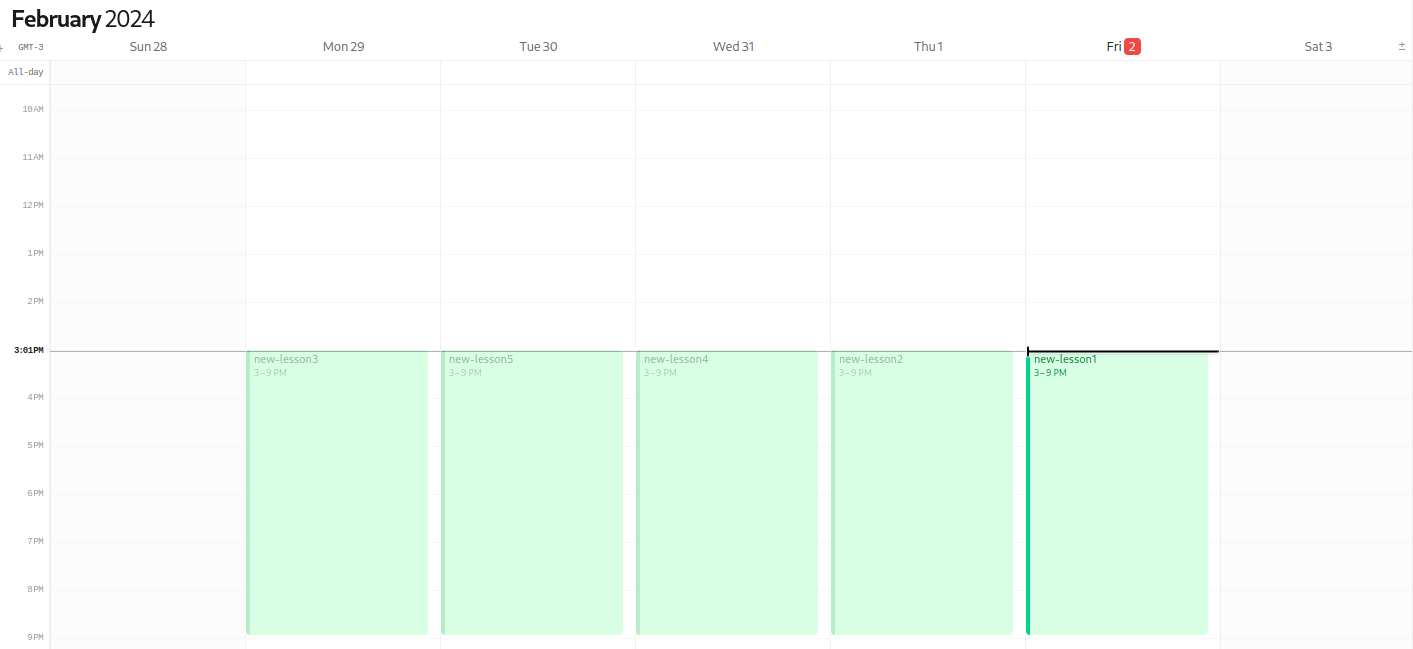
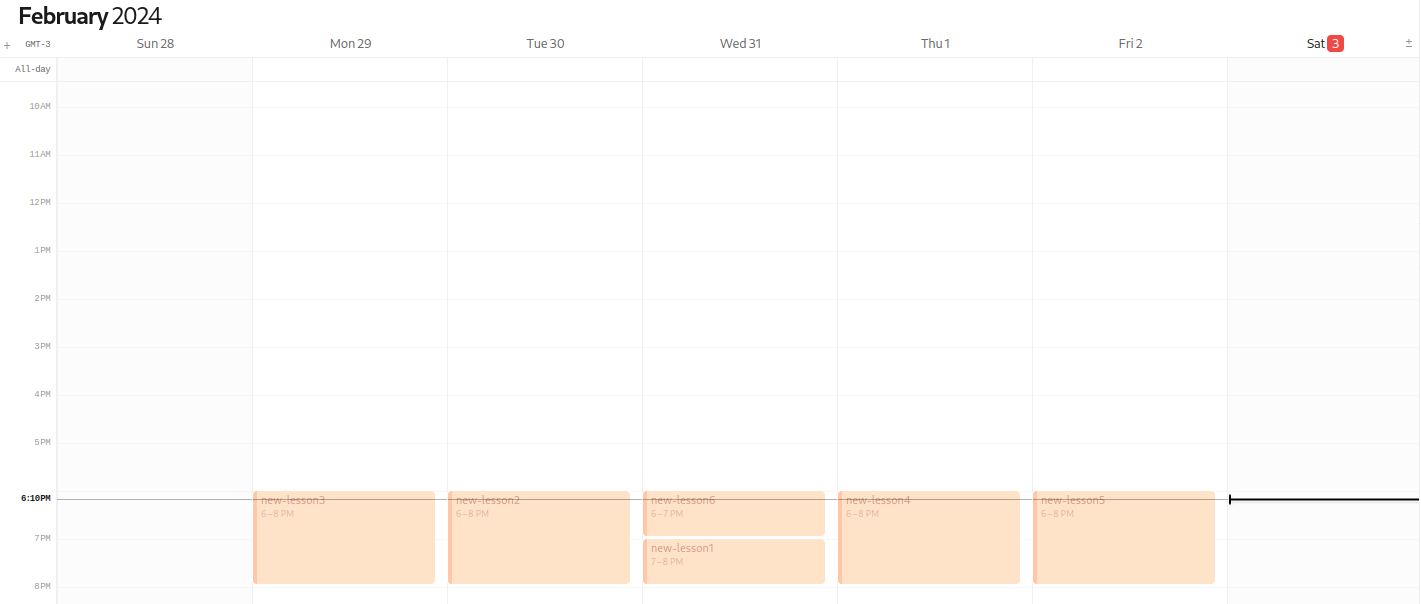
docs: update README.md

diff --git a/README.md b/README.md
@@ -67,8 +67,8 @@ POST /timeslot - Create a new timeslot
 **BODY**
 ```json
 {
-  "start": "15:00:00",
-  "end": "21:00:00"
+  "start": "18:00:00",
+  "end": "20:00:00"
 }
 ```
 
@@ -98,6 +98,10 @@ POST /timetable - Create a new timetable
 	},
 	{
 		"subject": "new-lesson5",
+		"level": 2
+	},
+	{
+		"subject": "new-lessons6",
 		"level": 2
 	}
 ]
